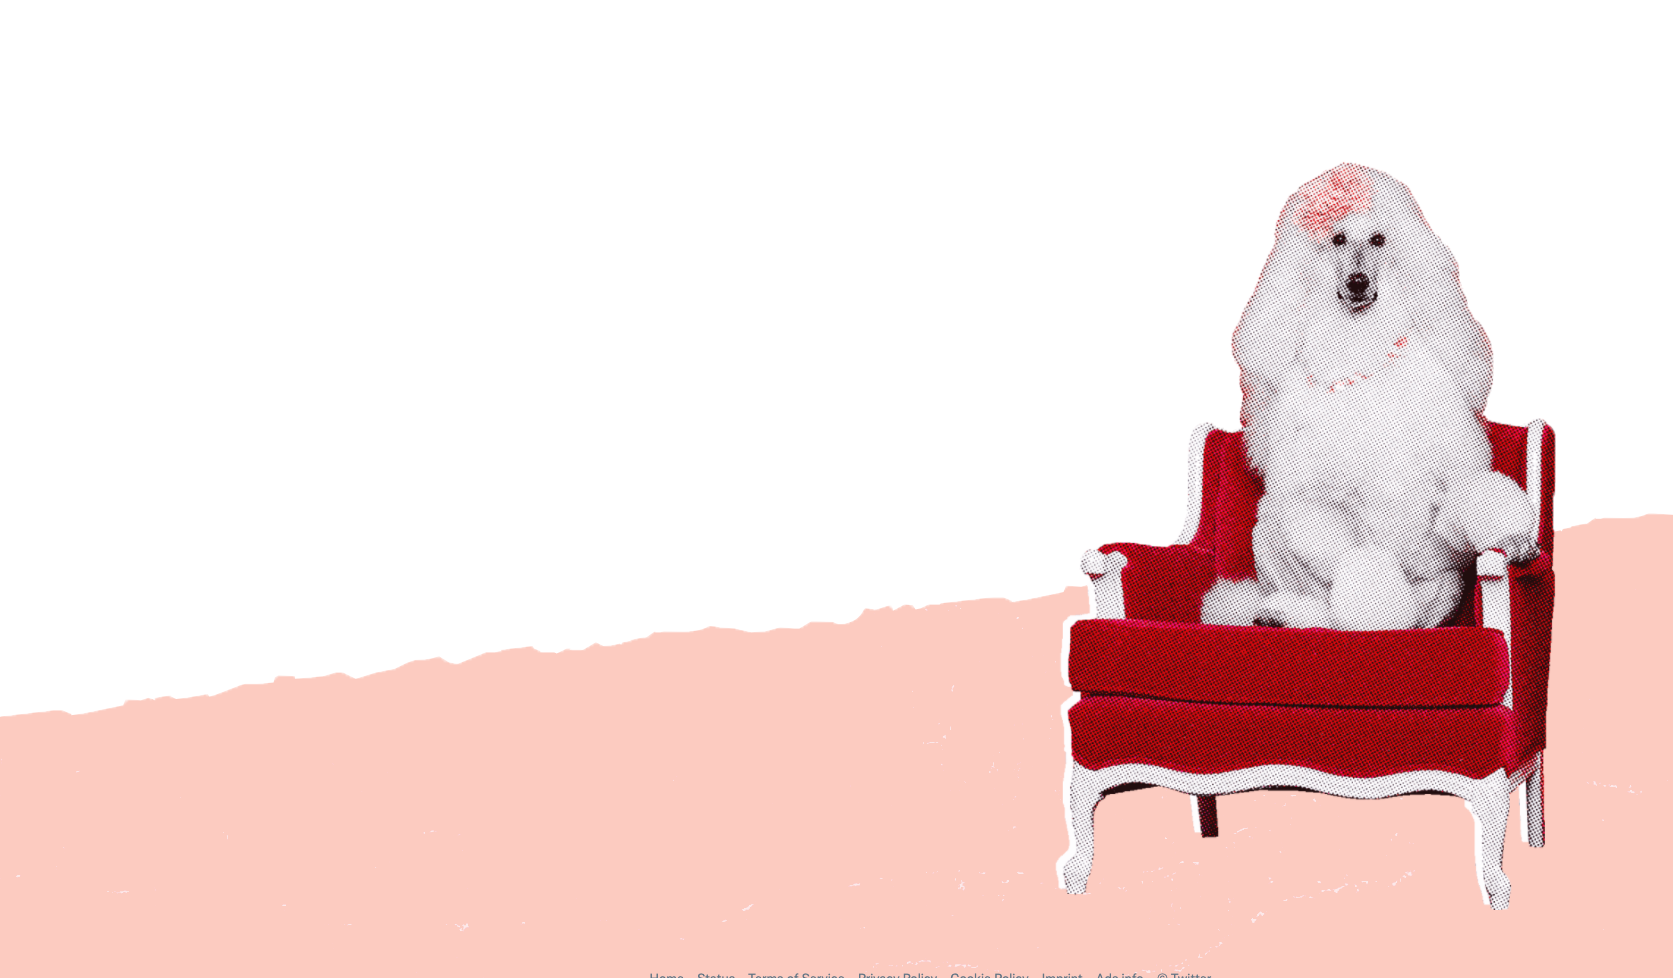
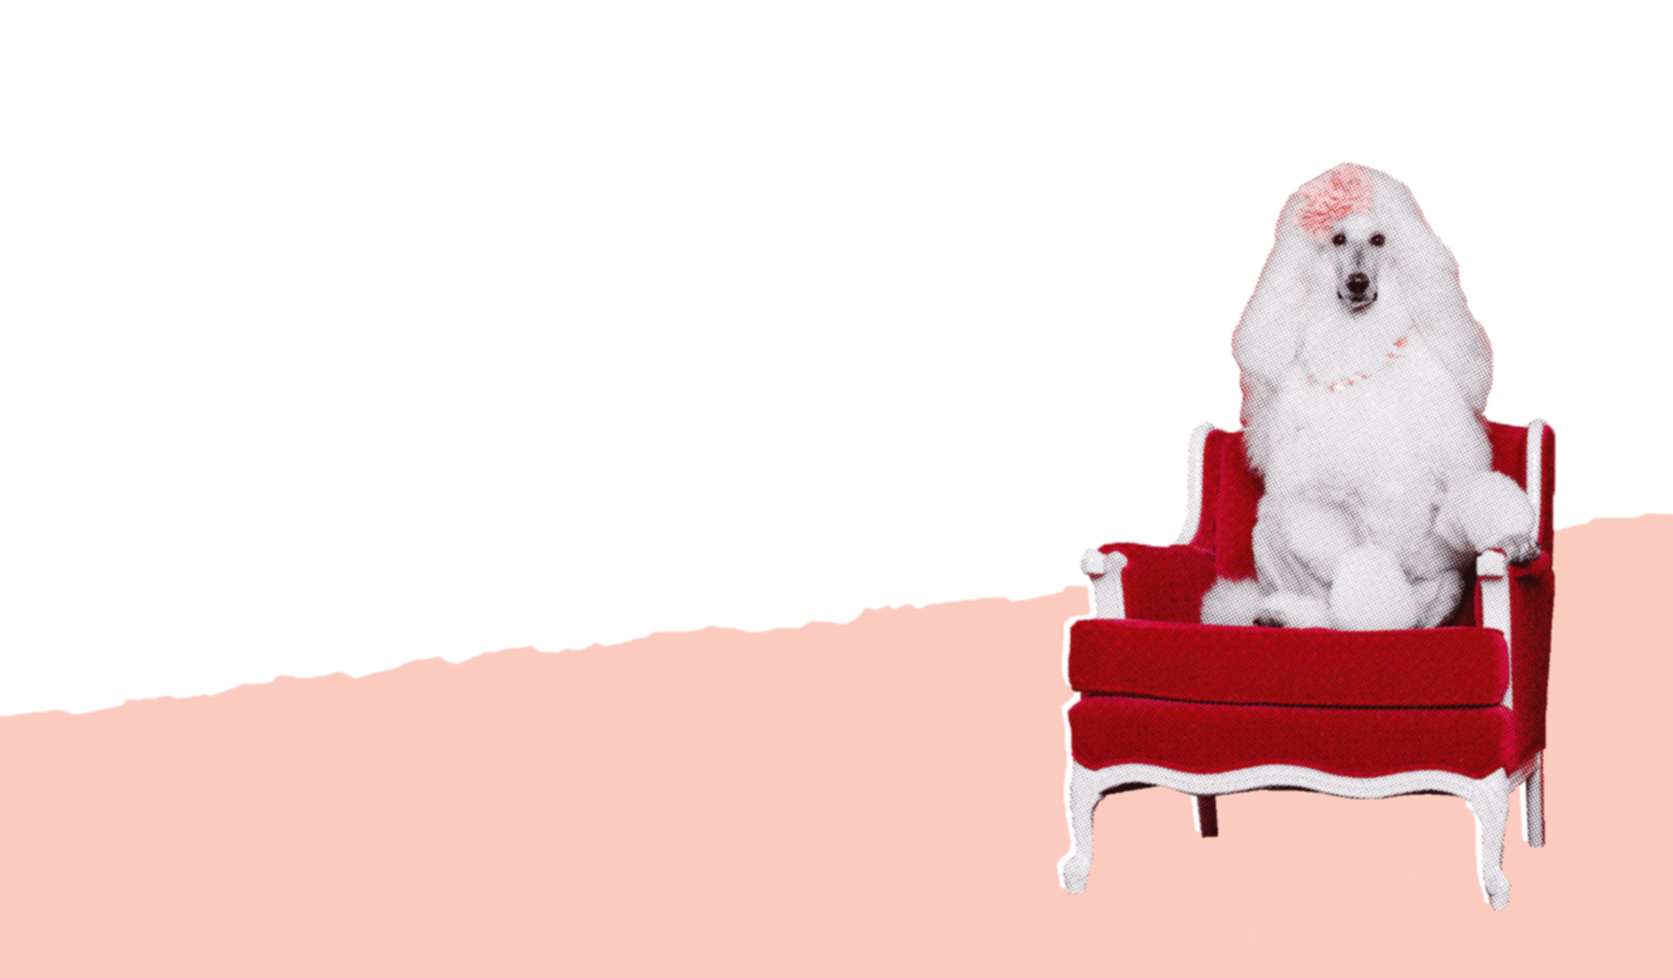
fix: add footer to 404/500

diff --git a/src/pages/500.tsx b/src/pages/500.tsx
@@ -1,5 +1,7 @@
 import { useRouter } from 'next/router';
 import Image from 'next/image';
+import { SEO } from '@components/common/seo';
+import { LoginFooter } from '@components/login/login-footer';
 import { CustomIcon } from '@components/ui/custom-icon';
 import { Button } from '@components/ui/button';
 
@@ -11,31 +13,38 @@ export default function InternalServerError(): JSX.Element {
   };
 
   return (
-    <div className='flex min-h-screen flex-col'>
-      <div className='z-1 flex h-1/2 w-96 flex-col gap-4 p-8'>
-        <i className='mb-0'>
-          <CustomIcon
-            className='-mt-4 h-6 w-6 text-accent-blue lg:h-12 lg:w-12'
-            iconName='TwitterIcon'
-          />
-        </i>
-        <h1 className='text-3xl font-bold'>This page is down</h1>
-        <p>
-          I scream. You scream. We all scream... for us to fix this page. We’ll
-          stop making jokes and get things up and running soon.
-        </p>
-        <Button
-          className='custom-button main-tab self-start border bg-light-primary px-4 py-1.5 font-bold text-white hover:bg-light-primary/90  focus-visible:bg-light-primary/90 active:bg-light-border/75 dark:bg-light-border  dark:text-light-primary dark:hover:bg-light-border/90 dark:focus-visible:bg-light-border/90  dark:active:bg-light-border/75'
-          onClick={handleRefresh}
-        >
-          Retry
-        </Button>
+    <>
+      <SEO title='Twitter / Internal Server Error' />
+      <div className='flex min-h-screen flex-col'>
+        <div className='z-1 flex h-1/2 w-96 flex-col gap-4 p-8'>
+          <i className='mb-0'>
+            <CustomIcon
+              className='-mt-4 h-6 w-6 text-accent-blue lg:h-12 lg:w-12'
+              iconName='TwitterIcon'
+            />
+          </i>
+          <h1 className='text-3xl font-bold'>This page is down</h1>
+          <p>
+            I scream. You scream. We all scream... for us to fix this page.
+            We’ll stop making jokes and get things up and running soon.
+          </p>
+          <Button
+            className='custom-button main-tab self-start border bg-light-primary px-4 py-1.5 font-bold text-white hover:bg-light-primary/90  focus-visible:bg-light-primary/90 active:bg-light-border/75 dark:bg-light-border  dark:text-light-primary dark:hover:bg-light-border/90 dark:focus-visible:bg-light-border/90  dark:active:bg-light-border/75'
+            onClick={handleRefresh}
+          >
+            Retry
+          </Button>
+        </div>
+        <Image
+          className='fixed bottom-0 h-1/2 w-full object-cover object-right lg:h-[100dvh] lg:object-center'
+          src='/assets/500-banner.png'
+          alt='Internal server error banner'
+        />
+        <LoginFooter
+          containerClassName='hidden flex-col justify-center p-4 text-sm text-light-secondary dark:text-dark-secondary lg:flex mt-auto z-1'
+          linkClassName='custom-underline text-gray-600'
+        />
       </div>
-      <Image
-        className='fixed lg:h-[100dvh] lg:object-center h-1/2 w-full bottom-0 object-cover object-right'
-        src='/assets/500-banner.png'
-        alt='Internal server error banner'
-      />
-    </div>
+    </>
   );
 }

diff --git a/src/pages/404.tsx b/src/pages/404.tsx
@@ -1,5 +1,7 @@
 import { useRouter } from 'next/router';
 import Image from 'next/image';
+import { SEO } from '@components/common/seo';
+import { LoginFooter } from '@components/login/login-footer';
 import { CustomIcon } from '@components/ui/custom-icon';
 import { Button } from '@components/ui/button';
 
@@ -11,31 +13,38 @@ export default function NotFound(): JSX.Element {
   };
 
   return (
-    <div className='flex min-h-screen flex-col'>
-      <div className='z-1 flex h-1/2 w-96 flex-col gap-4 p-8'>
-        <i className='mb-0'>
-          <CustomIcon
-            className='-mt-4 h-6 w-6 text-accent-blue lg:h-12 lg:w-12'
-            iconName='TwitterIcon'
-          />
-        </i>
-        <h1 className='text-3xl font-bold'>Nothing to see here</h1>
-        <p>
-          Looks like this page doesn’t exist. Here’s a picture of a poodle
-          sitting in a chair for your trouble.
-        </p>
-        <Button
-          className='custom-button main-tab self-start border bg-light-primary px-4 py-1.5 font-bold text-white hover:bg-light-primary/90  focus-visible:bg-light-primary/90 active:bg-light-border/75 dark:bg-light-border  dark:text-light-primary dark:hover:bg-light-border/90 dark:focus-visible:bg-light-border/90  dark:active:bg-light-border/75'
-          onClick={handleRefresh}
-        >
-          Looking for this?
-        </Button>
+    <>
+      <SEO title='Twitter / ?' />
+      <div className='flex min-h-screen flex-col'>
+        <div className='z-1 flex h-1/2 w-96 flex-col gap-4 p-8'>
+          <i className='mb-0'>
+            <CustomIcon
+              className='-mt-4 h-6 w-6 text-accent-blue lg:h-12 lg:w-12'
+              iconName='TwitterIcon'
+            />
+          </i>
+          <h1 className='text-3xl font-bold'>Nothing to see here</h1>
+          <p>
+            Looks like this page doesn’t exist. Here’s a picture of a poodle
+            sitting in a chair for your trouble.
+          </p>
+          <Button
+            className='custom-button main-tab self-start border bg-light-primary px-4 py-1.5 font-bold text-white hover:bg-light-primary/90  focus-visible:bg-light-primary/90 active:bg-light-border/75 dark:bg-light-border  dark:text-light-primary dark:hover:bg-light-border/90 dark:focus-visible:bg-light-border/90  dark:active:bg-light-border/75'
+            onClick={handleRefresh}
+          >
+            Looking for this?
+          </Button>
+        </div>
+        <Image
+          className='fixed bottom-0 h-1/2 w-full object-cover object-right lg:h-[100dvh] lg:object-center'
+          src='/assets/404-banner.png'
+          alt='Not found banner'
+        />
+        <LoginFooter
+          containerClassName='hidden flex-col justify-center p-4 text-sm text-light-secondary dark:text-dark-secondary lg:flex z-1 mt-auto'
+          linkClassName='custom-underline text-gray-600'
+        />
       </div>
-      <Image
-        className='fixed lg:h-[100dvh] lg:object-center h-1/2 w-full bottom-0 object-cover object-right'
-        src='/assets/404-banner.png'
-        alt='Not found banner'
-      />
-    </div>
+    </>
   );
 }

diff --git a/src/components/login/login-footer.tsx b/src/components/login/login-footer.tsx
@@ -1,3 +1,5 @@
+import cn from 'clsx';
+
 const footerLinks = [
   ['About', 'https://about.twitter.com'],
   ['Help Center', 'https://help.twitter.com'],
@@ -20,13 +22,24 @@ const footerLinks = [
   ['Settings', 'https://twitter.com/settings']
 ] as const;
 
-export function LoginFooter(): JSX.Element {
+export function LoginFooter({
+  containerClassName,
+  linkClassName
+}: {
+  linkClassName?: string;
+  containerClassName?: string;
+}): JSX.Element {
   return (
-    <footer className='hidden flex-col justify-center p-4 text-sm text-light-secondary dark:text-dark-secondary lg:flex'>
+    <footer
+      className={cn(
+        containerClassName ??
+          'hidden flex-col justify-center p-4 text-sm text-light-secondary dark:text-dark-secondary lg:flex'
+      )}
+    >
       <nav className='flex flex-wrap justify-center gap-4 gap-y-2'>
         {footerLinks.map(([linkName, href]) => (
           <a
-            className='custom-underline'
+            className={cn(linkClassName ?? 'custom-underline')}
             target='_blank'
             rel='noreferrer'
             href={href}
@@ -35,6 +48,7 @@ export function LoginFooter(): JSX.Element {
             {linkName}
           </a>
         ))}
+        {' '}
       </nav>
       <p className='flex justify-center gap-4'>
         <span>© 2022 Twitter, Inc.</span>

diff --git a/src/components/message/messageList.tsx b/src/components/message/messageList.tsx
@@ -47,7 +47,7 @@ export function MessageTable(): JSX.Element {
               key={conversation.id}
               legacyBehavior
             >
-              <div className='hover-animation accent-tab hover-card relative flex cursor-pointer items-center gap-0.5 border-b border-light-border bg-white p-4 duration-200 dark:border-dark-border dark:bg-main-background'>
+              <div className='hover-animation accent-tab hover-card relative my-0 flex cursor-pointer items-center gap-0.5 border-b border-light-border bg-white p-4 duration-200 dark:border-dark-border dark:bg-main-background'>
                 <Image
                   src={(conversation as ConversationWithUser).user.photoURL}
                   className='mr-2 h-14 w-14 flex-none rounded-full object-cover'

diff --git a/src/components/aside/aside-notifications.tsx b/src/components/aside/aside-notifications.tsx
@@ -70,7 +70,7 @@ export function AsideNotifications({
                 legacyBehavior
               >
                 <a
-                  className='hover-animation accent-tab hover-card relative flex flex-col gap-0.5 border-b border-light-border bg-white p-4 duration-200 dark:border-dark-border dark:bg-main-background'
+                  className='hover-animation accent-tab hover-card relative my-0 flex flex-col gap-0.5 border-b border-light-border bg-white p-4 duration-200 dark:border-dark-border dark:bg-main-background'
                   onClick={async (): Promise<void> => {
                     preventBubbling();
                     void navigator.push(NotificationProps.url);

diff --git a/src/styles/globals.scss b/src/styles/globals.scss
@@ -1,8 +1,8 @@
 @use 'fonts';
 
-@import "tailwindcss/base";
-@import "tailwindcss/components";
-@import "tailwindcss/utilities";
+@import 'tailwindcss/base';
+@import 'tailwindcss/components';
+@import 'tailwindcss/utilities';
 
 @layer base {
   :root {
